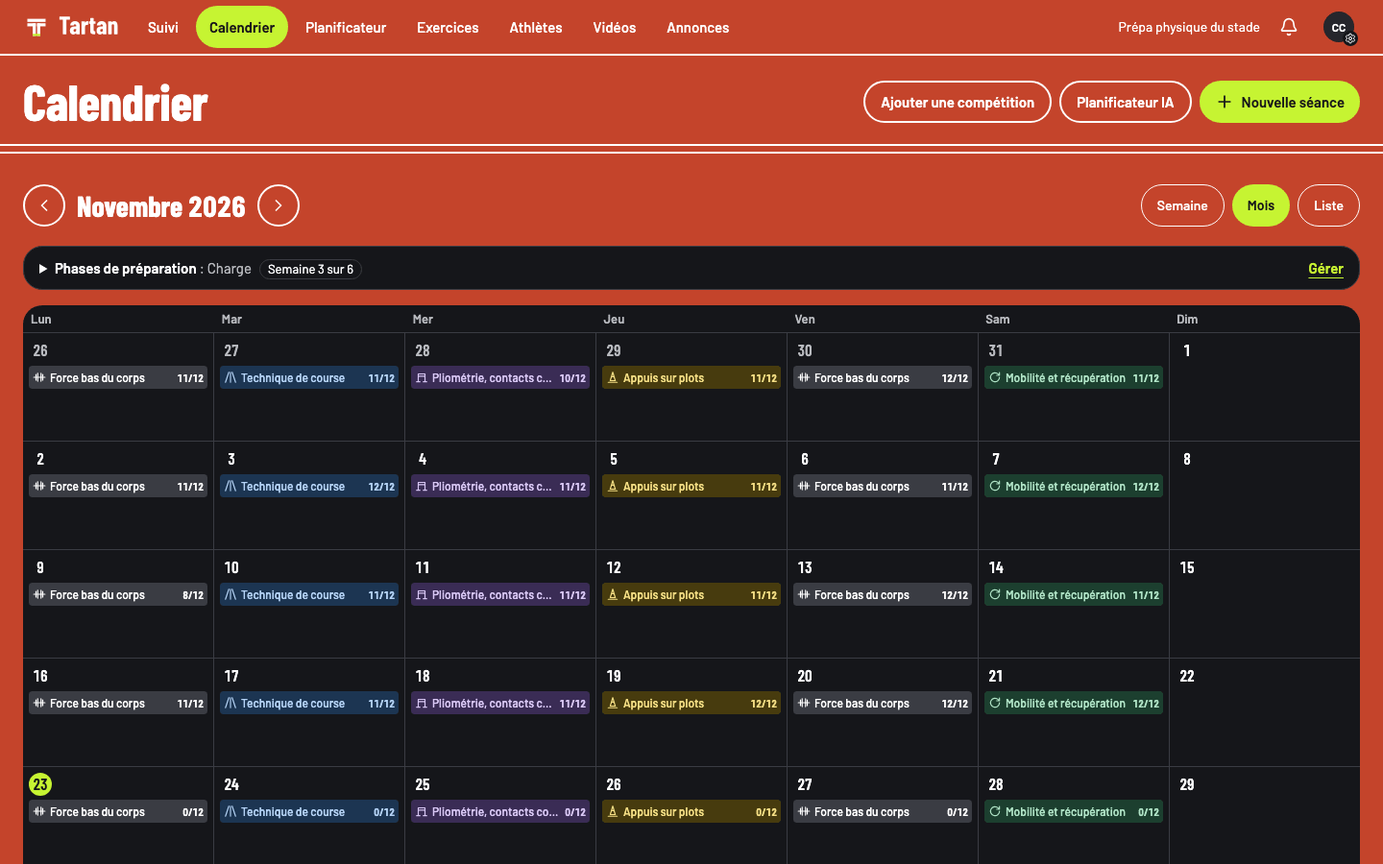
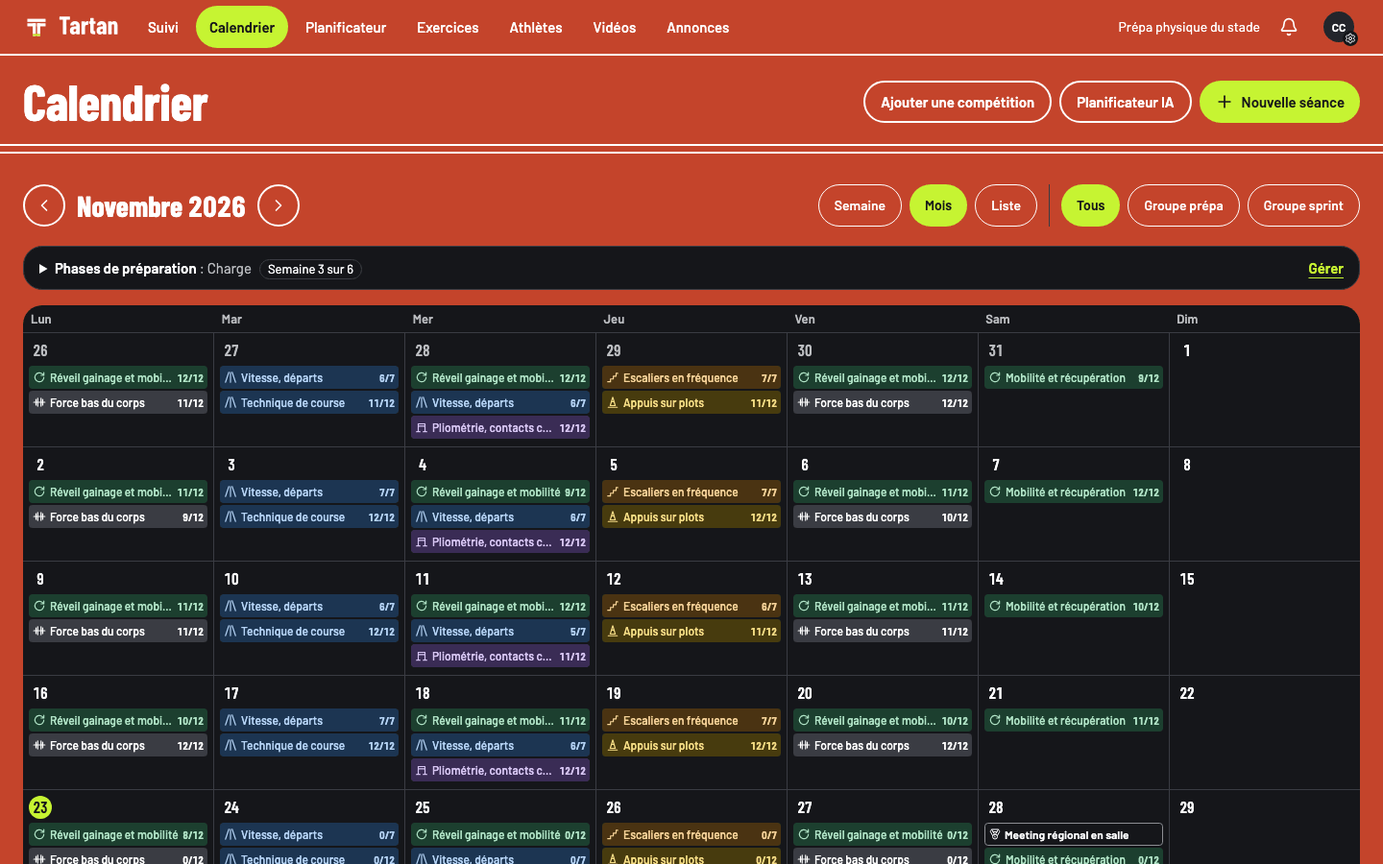
feat(landing): fuller captures from a two-group demo week

Changed region(s): [[0.0, 0.4044, 0.875, 1.0], [0.5938, 0.2178, 0.9688, 0.28]]

diff --git a/packages/i18n/src/fr.ts b/packages/i18n/src/fr.ts
@@ -1566,13 +1566,13 @@ export const fr = {
           tab: "Semaine",
           title: "Ta semaine d'un coup d'œil.",
           body: "Chaque jour, ses séances : le type, l'heure, le groupe, et combien d'athlètes l'ont déjà faite. Tu déplaces une séance d'un geste, tu dupliques la semaine.",
-          alt: "Calendrier du coach sur ordinateur, semaine du 23 novembre : une séance par jour, musculation, course et technique, pliométrie, plots, musculation et mobilité, chacune avec son heure et son groupe.",
+          alt: "Calendrier du coach sur ordinateur, semaine du 23 novembre : deux à trois séances par jour pour deux groupes, le réveil musculaire à 7 h 30, la vitesse du groupe sprint à 12 h 15, la séance du soir à 18 h 30, et le meeting régional en salle du samedi.",
         },
         mois: {
           tab: "Mois",
           title: "Le mois entier, en couleurs.",
           body: "Musculation, pliométrie, course, plots, mobilité : chaque type de séance a sa couleur, et la phase de préparation en cours encadre les semaines.",
-          alt: "Calendrier du mois de novembre sur ordinateur : chaque jour porte ses séances en couleur avec le nombre d'athlètes qui les ont faites, sous la phase de préparation « Charge », semaine 3 sur 6.",
+          alt: "Calendrier du mois de novembre sur ordinateur : deux ou trois séances par jour en couleur, avec le nombre d'athlètes qui les ont faites, sous la phase de préparation « Charge », semaine 3 sur 6.",
         },
         constructeur: {
           tab: "Constructeur",
@@ -1596,31 +1596,31 @@ export const fr = {
           tab: "Fiche d'exercice",
           title: "Chaque geste, montré pas à pas.",
           body: "Un athlète du groupe dessiné pour Tartan exécute le mouvement, position par position, de profil ou de face, avec les consignes, les erreurs à éviter et les variantes.",
-          alt: "Fiche du squat arrière sur ordinateur : un athlète dessiné, arrêté en bas du squat à l'étape 2, avec la mise en place, les étapes, les erreurs à éviter et les variantes.",
+          alt: "Fiche du squat arrière sur ordinateur : un athlète dessiné, arrêté en bas du squat à l'étape 2, la mise en place, les étapes, les erreurs à éviter, les variantes et une vidéo du groupe liée au mouvement.",
         },
         suivi: {
           tab: "Suivi",
           title: "Qui a fait quoi, sans SMS.",
           body: "La grille de la semaine se remplit à mesure que les athlètes valident : faite, partielle ou manquée. Tu repères d'un coup d'œil qui décroche.",
-          alt: "Suivi du groupe sur ordinateur, semaine du 16 novembre : les athlètes en lignes, six séances en colonnes, chaque séance faite, partielle ou manquée, et la part faite par chacun.",
+          alt: "Suivi du groupe sur ordinateur, semaine du 16 novembre : les athlètes des deux groupes en lignes, onze séances en colonnes, chaque séance faite, partielle ou manquée, et la part faite par chacun.",
         },
         analyse: {
           tab: "Analyse",
           title: "Ce qui a vraiment été fait.",
           body: "Séances validées, séries réalisées, tonnage, distance, contacts au sol : le prévu et le réalisé restent séparés, et une donnée absente n'est jamais inventée.",
-          alt: "Analyse de l'entraînement sur ordinateur, sur quatre semaines : 256 séances validées sur 288 attribuées, les séries prescrites et l'évolution hebdomadaire du tonnage prévu.",
+          alt: "Analyse de l'entraînement sur ordinateur, sur quatre semaines : 463 séances validées sur 516 attribuées, 648 séries de travail réalisées, et le tonnage prévu et réalisé, semaine par semaine.",
         },
-        calculateur: {
-          tab: "Calculateur",
-          title: "Les pourcentages, sans calculette.",
-          body: "Une charge et ses répétitions donnent un maximum estimé, puis toutes les charges de 40 à 100 %, arrondies au pas de ta barre.",
-          alt: "Calculateur de charges sur ordinateur : 102,5 kg soulevés 5 fois donnent un maximum estimé de 119,58 kg, puis le tableau des charges exactes et arrondies, à partir de 40 %.",
+        references: {
+          tab: "Références de force",
+          title: "Chacun ses maximums.",
+          body: "Les tests de force de chaque athlète deviennent ses références de travail : c'est d'elles que partent ses charges en pourcentage. Le calculateur estime un maximum quand le test manque.",
+          alt: "Fiche de l'athlète Tom Girard sur ordinateur : ses références de travail au squat arrière, 104 kg, et à l'épaulé, 75 kg, puis ses tests de force au squat, à l'épaulé, au soulevé de terre et au hip thrust, à côté de son historique de séances.",
         },
         athlete: {
           tab: "Fiche athlète",
           title: "Un athlète, sur une seule page.",
           body: "Régularité, séances faites par semaine, performances et records, historique : tout ce qu'il faut pour la discussion d'après séance.",
-          alt: "Fiche de l'athlète Alex Bernard sur ordinateur : 73 % de séances faites, les séances faites par semaine, ses performances avec deux records, au 100 m et au saut en longueur, et son historique.",
+          alt: "Fiche de l'athlète Alex Bernard, du groupe prépa et du groupe sprint, sur ordinateur : 90 % de séances faites, les séances faites par semaine, ses performances avec deux records, au 100 m et au saut en longueur, et son historique.",
         },
         video: {
           tab: "Analyse vidéo",
@@ -1639,31 +1639,31 @@ export const fr = {
           tab: "Aujourd'hui",
           title: "Sa journée, dès l'ouverture.",
           body: "La séance du jour en tête, le mot du coach, et la suite de la semaine juste dessous.",
-          alt: "Accueil de l'athlète sur téléphone : « Salut Alex », la semaine en pastilles, l'annonce du coach, la séance de force du jour avec ses boutons de validation, et le mot du coach.",
+          alt: "Accueil de l'athlète sur téléphone : « Salut Alex », la semaine en pastilles, l'annonce du coach, le réveil gainage et mobilité de 7 h 30 déjà validé, le mot du coach et le programme du jour.",
         },
         semaine: {
           tab: "À venir",
           title: "Il voit ce qui arrive.",
           body: "La phase de préparation en cours, puis les séances des jours à venir, en liste ou sur le mois : chacun s'organise, sans message de rappel.",
-          alt: "Calendrier de l'athlète sur téléphone, en liste : la phase « Charge », semaine 3 sur 6, puis les séances à venir, du lundi au jeudi.",
+          alt: "Calendrier de l'athlète sur téléphone, en liste : la phase « Charge », semaine 3 sur 6, le meeting régional en salle du samedi, puis les séances à venir, la première déjà faite.",
         },
         musculation: {
           tab: "Musculation",
           title: "Ses charges, déjà calculées.",
-          body: "Le pourcentage du coach devient une charge en kilos, d'après ses propres références. Il coche chaque série et note ce qu'il a vraiment soulevé.",
-          alt: "Mode séance sur téléphone : squat arrière, 4 × 5 répétitions à 96,25 kg, récupération 3 minutes ; deux séries cochées sur quatre et le minuteur de récupération lancé.",
+          body: "Le pourcentage du coach devient une charge en kilos, d'après ses propres références. Chaque série arrive pré-remplie : il la coche, ou corrige ce qu'il a vraiment soulevé.",
+          alt: "Séries de la séance de force sur téléphone : squat arrière, 4 × 5 répétitions à 96,25 kg ; la série 1 arrive pré-remplie, 5 répétitions et 96,25 kg, à cocher ou à corriger.",
         },
         pliometrie: {
           tab: "Pliométrie",
           title: "Les contacts comptés.",
           body: "Séries, répétitions, contacts au sol et récupération : la séance de pliométrie se suit exercice par exercice.",
-          alt: "Mode séance sur téléphone : sauts de haies basses, 5 × 6 haies, 30 contacts au sol, récupération 2 minutes, avec les consignes et les cinq séries à cocher.",
+          alt: "Mode séance sur téléphone : sauts de haies basses, 5 × 6 haies, 30 contacts au sol, récupération 2 minutes, et le guide du mouvement ouvert, l'athlète dessiné au-dessus de deux haies.",
         },
         course: {
           tab: "Course",
-          title: "Distances et récupérations.",
-          body: "Gammes, accélérations, sprints : chaque exercice avec sa distance, sa récupération et la consigne du coach.",
-          alt: "Mode séance sur téléphone : accélérations, 6 × 30 mètres, récupération 2 minutes, avec les consignes du coach et les six séries à cocher.",
+          title: "Il sait ce qui l'attend.",
+          body: "Avant la séance, tout est là : les blocs, les distances, les récupérations et le mot du coach. Il dit s'il vient, puis démarre la séance.",
+          alt: "Séance « Technique de course » du mardi sur téléphone : le mot du coach, « Je viens » ou « Je ne viens pas », le bouton pour démarrer, puis les gammes avec leurs distances et leurs récupérations.",
         },
         calculateur: {
           tab: "Calculateur",
@@ -1675,7 +1675,7 @@ export const fr = {
           tab: "Progrès",
           title: "Ses records, sa progression.",
           body: "Performances en compétition, références de force et séries réalisées : il voit d'où il part et où il en est.",
-          alt: "Progrès de l'athlète sur téléphone : la phase de préparation en cours, 19 séances faites sur 23 ces quatre dernières semaines, puis ses performances.",
+          alt: "Progrès de l'athlète sur téléphone : la phase de préparation en cours, 43 séances faites sur 47 ces quatre dernières semaines, puis ses performances.",
         },
         video: {
           tab: "Vidéo",

diff --git a/apps/web/prisma/demo-preparation.ts b/apps/web/prisma/demo-preparation.ts
@@ -14,8 +14,8 @@ import { setConsent } from "@/server/consent.service";
 import { publishAnnouncement } from "@/server/comm.service";
 import { createOrganization } from "@/server/org.service";
 import { addPerformance } from "@/server/performance.service";
-import { addStrengthTest } from "@/server/strength.service";
-import { publishRow, saveScheduledSession } from "@/server/session.service";
+import { addStrengthTest, selectStrengthReference } from "@/server/strength.service";
+import { publishRow, saveCompetition, saveScheduledSession } from "@/server/session.service";
 
 const databaseUrl = process.env.DATABASE_URL ?? "";
 if (!/@(localhost|127\.0\.0\.1)[:/]/.test(databaseUrl)) {
@@ -122,6 +122,18 @@ const main = async () => {
   });
   const roster = [mainAthlete];
   for (const [first, last] of ATHLETES) roster.push(await enroll(await person(first, last), first, last));
+  // Un second groupe, les sprinteurs, qui s'entraînent aussi à midi : Alex en fait partie.
+  const sprintGroup = await prisma.group.create({
+    data: { organizationId, name: "Groupe sprint", goal: "Vitesse et départs, saison en salle" },
+  });
+  const sprinters = [0, 1, 2, 3, 5, 6, 10].map((index) => roster[index]!);
+  await prisma.groupMember.createMany({
+    data: sprinters.map((athleteId) => ({
+      groupId: sprintGroup.id,
+      athleteId,
+      createdAt: new Date("2026-01-05T10:00:00Z"),
+    })),
+  });
 
   const library = await prisma.exercise.findMany({ where: { organizationId }, select: { id: true, name: true } });
   const exercise = (name: string) => {
@@ -142,14 +154,19 @@ const main = async () => {
       ["deadlift", Math.round((index === 0 ? 120 : base) * 1.2)],
       ["hip_thrust", Math.round((index === 0 ? 120 : base) * 1.35)],
     ];
+    // Chaque test sert les pourcentages des séances (clé du test) ; squat et épaulé ont aussi leur référence de travail,
+    // rattachée à leur fiche, que la fiche de l'athlète affiche.
+    const linked: Record<string, string> = { back_squat: "Squat arrière", clean: "Épaulé" };
     for (const [exerciseKey, value] of tests) {
-      await addStrengthTest(coachId, organizationId, {
-        athleteId,
-        exerciseKey,
-        value,
-        kind: "one_rm",
-        date: addDays(today0, -21 - (index % 4) * 3),
-      });
+      const date = addDays(today0, -21 - (index % 4) * 3);
+      await addStrengthTest(coachId, organizationId, { athleteId, exerciseKey, value, kind: "one_rm", date });
+      const name = linked[exerciseKey];
+      if (name) {
+        await selectStrengthReference(coachId, organizationId, athleteId, exercise(name), {
+          source: "working",
+          valueKg: value,
+        });
+      }
     }
   }
   for (const [days, value] of [
@@ -264,28 +281,64 @@ const main = async () => {
         ]),
       ],
     },
+    reveil: {
+      type: "mobility",
+      title: "Réveil gainage et mobilité",
+      duration: 25,
+      note: "Avant les cours : on réveille le tronc et les hanches, sans se presser.",
+      blocks: [
+        block("Réveil", [
+          item("Mobilité de cheville", { sets: 2, reps: 10, rest_s: 20 }),
+          item("Mobilité des hanches", { sets: 2, reps: 10, rest_s: 20 }),
+          item("Gainage ventral", { sets: 3, duration_s: 45, rest_s: 30 }),
+        ]),
+      ],
+    },
+    vitesse: {
+      type: "running",
+      title: "Vitesse, départs",
+      duration: 50,
+      note: "Départs réactifs : premiers appuis courts et puissants.",
+      blocks: [
+        block("Activation", [item("Gammes : montées de genoux", { sets: 2, distance_m: 20, rest_s: 45 })]),
+        block("Vitesse", [
+          item("Accélérations", { sets: 5, distance_m: 30, rest_s: 150 }),
+          item("Sprints départ lancé", { sets: 4, distance_m: 30, rest_s: 240 }),
+        ]),
+      ],
+    },
   };
 
-  // Semaine type, de quatre semaines avant à quatre semaines après : le mois affiché est plein.
-  const pattern: [number, keyof typeof sessionsByType][] = [
-    [0, "force"],
-    [1, "technique"],
-    [2, "plyo"],
-    [3, "plots"],
-    [4, "force"],
-    [5, "mobilite"],
+  // Semaine type, de quatre semaines avant à quatre semaines après : le mois affiché est plein. Le groupe prépa le
+  // soir, son réveil musculaire trois matins, et le groupe sprint deux midis : jusqu'à trois séances par jour.
+  type Slot = [offset: number, key: keyof typeof sessionsByType, time: string, group: "prepa" | "sprint"];
+  const pattern: Slot[] = [
+    [0, "reveil", "07:30", "prepa"],
+    [0, "force", "18:30", "prepa"],
+    [1, "vitesse", "12:15", "sprint"],
+    [1, "technique", "18:30", "prepa"],
+    [2, "reveil", "07:30", "prepa"],
+    [2, "vitesse", "12:15", "sprint"],
+    [2, "plyo", "18:30", "prepa"],
+    [3, "escaliers", "12:15", "sprint"],
+    [3, "plots", "18:30", "prepa"],
+    [4, "reveil", "07:30", "prepa"],
+    [4, "force", "18:30", "prepa"],
+    [5, "mobilite", "10:00", "prepa"],
   ];
+  const groups = { prepa: { id: org.firstGroupId, members: roster }, sprint: { id: sprintGroup.id, members: sprinters } };
   const today = todayIso();
   const monday = startOfWeek(today);
   const publishedAt = new Date(`${addDays(monday, -35)}T10:00:00Z`);
   for (let week = -4; week <= 4; week++) {
-    for (const [offset, key] of pattern) {
+    for (const [offset, key, startTime, groupKey] of pattern) {
       const date = addDays(monday, week * 7 + offset);
-      const spec = week === 1 && key === "plots" ? sessionsByType.escaliers! : sessionsByType[key]!;
+      const spec = sessionsByType[key]!;
+      const group = groups[groupKey];
       const session = await saveScheduledSession(coachId, organizationId, {
         date,
-        startTime: "18:30",
-        location: spec.type === "strength" ? "Salle de force" : "Stade",
+        startTime,
+        location: spec.type === "strength" ? "Salle de force" : spec.type === "stairs" ? "Tribune du stade" : "Stade",
         publishAt: null,
         draft: {
           title: spec.title,
@@ -294,12 +347,15 @@ const main = async () => {
           coachNote: spec.note,
           blocks: spec.blocks,
         },
-        assignments: [{ targetType: "group", targetId: org.firstGroupId }],
+        assignments: [{ targetType: "group", targetId: group.id }],
         overrides: [],
       });
       await publishRow(session.id, coachId, publishedAt, { silent: true });
-      if (date >= today) continue;
-      for (const athleteId of roster) {
+      // Le réveil de ce matin est déjà fait par une partie du groupe : la journée a commencé.
+      const doneThisMorning = date === today && startTime < "09:00";
+      if (date >= today && !doneThisMorning) continue;
+      for (const athleteId of group.members) {
+        if (doneThisMorning && random() < 0.3) continue;
         const roll = random();
         const status = roll < 0.78 ? "done" : roll < 0.9 ? "partial" : "missed";
         const log = await prisma.sessionLog.create({
@@ -325,14 +381,26 @@ const main = async () => {
               ...set,
               sessionLogId: log.id,
               done: true,
+              // Les valeurs du contrat des séries détaillées : sans elles, l'analyse ignore la série.
               setKind: "work",
-              loadKind: "external_total",
+              loadKind: "external",
+              repetitionScope: "total",
+              sideCount: 1,
             })),
           });
         }
       }
     }
   }
+
+  // Le meeting du samedi, pour le groupe sprint : il paraît dans le calendrier du coach et de ses athlètes.
+  await saveCompetition(coachId, organizationId, {
+    name: "Meeting régional en salle",
+    date: addDays(monday, 5),
+    location: "Halle d'athlétisme",
+    level: "Régional",
+    athleteIds: sprinters,
+  });
 
   // La capture de l'accueil montre toujours une séance du jour, même un jour de repos du cycle.
   const offsetToday = (new Date(`${today}T12:00:00Z`).getUTCDay() + 6) % 7;

diff --git a/apps/web/e2e/landing-captures.spec.ts b/apps/web/e2e/landing-captures.spec.ts
@@ -199,12 +199,9 @@ test.describe("page d'accueil", () => {
     // La semaine passée, remplie par les validations du groupe.
     await shot(page, `/suivi?semaine=${monday(1)}`, "coach-suivi.png");
     await shot(page, "/analyse", "coach-analyse.png");
-    await shot(page, "/outils/charges", "coach-calculateur.png", async (p) => {
-      await p.getByLabel("Charge externe totale (kg)").fill("102,5");
-      await p.getByLabel("Répétitions réalisées").fill("5");
-      await p.getByRole("button", { name: "Utiliser dans le tableau" }).click();
-      await p.waitForTimeout(300);
-    });
+    // Les références de force d'un autre athlète que celui de la fiche : ses maximums, d'où partent ses charges.
+    const tom = await one("SELECT id FROM athletes WHERE first_name = 'Tom' LIMIT 1");
+    await shot(page, `/athletes/${tom}`, "coach-references.png", (p) => scrollTo(p, "Références de travail"));
     await shot(page, `/athletes/${alex}`, "coach-athlete.png");
 
     // Le planificateur, par sa demande : une séance décrite en une phrase, prête à partir. La capture s'arrête avant
@@ -264,16 +261,25 @@ test.describe("téléphone", () => {
       await p.waitForTimeout(600);
     };
     // La séance de force du jour : le squat à 80 % devient sa charge en kilos ; deux séries déjà cochées.
+    // Ses séries de la séance de force : la charge prévue de chaque série, calculée sur ses références, et ce qu'il a
+    // réellement soulevé à saisir dessous.
+    await shot(page, `/seance/${today}/series`, "athlete-musculation.png", async (p) => {
+      await p.locator("main").getByText("Squat arrière", { exact: true }).last().click();
+      await p.waitForTimeout(300);
+      await scrollTo(p, "Squat arrière");
+    });
+    // La pliométrie en cours : trois séries faites, le geste ouvert au-dessus des séries.
     await shot(
       page,
-      `/seance/${today}/mode`,
-      "athlete-musculation.png",
+      `/seance/${plyo}/mode`,
+      "athlete-pliometrie.png",
       step(1, async (p) => {
-        for (const set of [1, 2]) await p.getByRole("button", { name: `Série ${set} à faire` }).click();
+        for (const set of [1, 2, 3]) await p.getByRole("button", { name: `Série ${set} à faire` }).click();
+        await p.getByText("Voir le guide du mouvement").click();
       }),
     );
-    await shot(page, `/seance/${plyo}/mode`, "athlete-pliometrie.png", step(1));
-    await shot(page, `/seance/${running}/mode`, "athlete-course.png", step(2));
+    // La séance de course entière, avant de la démarrer : ses blocs, ses distances et ses récupérations.
+    await shot(page, `/seance/${running}`, "athlete-course.png");
     // La fiche d'un exercice, ouverte depuis la séance : le geste animé et ses étapes.
     await shot(
       page,

diff --git a/apps/web/app/page.tsx b/apps/web/app/page.tsx
@@ -19,7 +19,7 @@ import athleteVideo from "@/features/landing/images/athlete-video.png";
 import coachAnalysis from "@/features/landing/images/coach-analyse.png";
 import coachAthlete from "@/features/landing/images/coach-athlete.png";
 import coachLibrary from "@/features/landing/images/coach-bibliotheque.png";
-import coachCalculator from "@/features/landing/images/coach-calculateur.png";
+import coachReferences from "@/features/landing/images/coach-references.png";
 import coachBuilder from "@/features/landing/images/coach-constructeur.png";
 import coachExercise from "@/features/landing/images/coach-fiche-exercice.png";
 import coachMonth from "@/features/landing/images/coach-mois.png";
@@ -62,7 +62,7 @@ const coachScreens: ShowcaseItem[] = (
     ["fiche", coachExercise],
     ["suivi", coachTracking],
     ["analyse", coachAnalysis],
-    ["calculateur", coachCalculator],
+    ["references", coachReferences],
     ["athlete", coachAthlete],
     ["video", coachVideo],
   ] as const

diff --git a/docs/JOURNAL.md b/docs/JOURNAL.md
@@ -6,8 +6,8 @@ Modèle :
 
 ```text
 ## 2026-11-23, Claude Opus 5.5, page d'accueil de l'ouverture
-Fait : PR `feat/landing-ouverture`, à la demande du fondateur. Film réduit au saut en hauteur (`jump-film-pose.ts` : `FILM.start/plant/flight/impact/finish`, les promesses suivent l'élan, l'appel et le franchissement ; haies, perche, relais et leurs accessoires retirés, test `jump-film-script.test.ts`). Bande du groupe (`group-band.tsx`, `t.group`) retirée ; `discipline-athlete.ts` gardé, la carte de record s'en sert. « Capture fictive », « Rejoindre le pilote » et « (bêta) » retirés (titre et pastille du planificateur, web et natif, ligne des CGV) ; inscriptions fermées : le bouton dit « Nous écrire ». Mot « Tartan » à T de la marque : `scripts/build-logo.mjs` produit `wordmark-letters.svg` et `wordmark-line.svg`, `.wordmark` les peint en masques (citron sur la piste, une couleur sur fond clair). Deux sections d'onglets (`feature-showcase.tsx`, cadres `device-frame.tsx` en CSS) : 11 écrans du coach, 9 de l'athlète, 20 captures neuves sur `demo:preparation` enrichi (références de force par athlète, charges en % du max, séries de travail, performances et records, favoris, quatre vidéos, accord IA du coach).
-Vérifié : types, lint, tests, design ; parcours `landing`, `pilot`, `ai-planner`, `screen-matrix` sur build de production ; rendu regardé à 390, 768 et 1440 px. Non vérifié : app native sur simulateur (l'accès au simulateur n'a pas été accordé pendant le lot : les écrans de l'athlète sont ceux de la web app à 390 px, ce que dit `provenance.json`) ; lecteurs d'écran ; Safari.
+Fait : PR `feat/landing-ouverture`, à la demande du fondateur. Film réduit au saut en hauteur (`jump-film-pose.ts` : `FILM.start/plant/flight/impact/finish`, les promesses suivent l'élan, l'appel et le franchissement ; haies, perche, relais et leurs accessoires retirés, test `jump-film-script.test.ts`). Bande du groupe (`group-band.tsx`, `t.group`) retirée ; `discipline-athlete.ts` gardé, la carte de record s'en sert. « Capture fictive », « Rejoindre le pilote » et « (bêta) » retirés (titre et pastille du planificateur, web et natif, ligne des CGV) ; inscriptions fermées : le bouton dit « Nous écrire ». Mot « Tartan » à T de la marque : `scripts/build-logo.mjs` produit `wordmark-letters.svg` et `wordmark-line.svg`, `.wordmark` les peint en masques (citron sur la piste, une couleur sur fond clair). Deux sections d'onglets (`feature-showcase.tsx`, cadres `device-frame.tsx` en CSS) : 11 écrans du coach, 9 de l'athlète, 20 captures neuves sur `demo:preparation` enrichi (deux groupes, réveil musculaire le matin, vitesse à midi, séances du soir, un meeting le samedi, validations du matin déjà faites, références de force et références de travail par athlète, charges en % du max, séries de travail, performances et records, favoris, quatre vidéos, accord IA du coach). « Séries réalisées : 0 » sur `/analyse` venait du jeu de données : ses séries n'avaient pas les valeurs du contrat `detailedSetInput` (`loadKind: "external"`, `repetitionScope`, `sideCount`), l'analyse les écartait.
+Vérifié : types, lint, tests, design ; parcours `landing`, `pilot`, `ai-planner`, `screen-matrix` sur build de production ; rendu regardé à 390, 768 et 1440 px. Non vérifié : app native sur simulateur (build Release fait deux fois, installé et ouvert sur un simulateur dédié ; l'accès au simulateur, demandé à trois reprises, n'a pas été accordé, et Maestro n'est pas installé sur le poste : sans saisie ni toucher, la connexion par mot de passe est impossible ; les écrans de l'athlète sont ceux de la web app à 390 px, ce que dit `provenance.json`) ; lecteurs d'écran ; Safari.
 À savoir : `e2e/landing-captures.spec.ts` refait toutes les captures (mode d'emploi en tête ; jamais en CI). Le clip de l'analyse vidéo est le geste animé de la fiche « Accélérations », filmé par le test « clip » ; les vidéos ne se capturent que sur le serveur de développement (`VIDEO_DEV_MP4_URL`). Le planificateur est capturé avant l'envoi : sa réponse viendrait du prestataire simulé. Le build natif Release pointé sur un serveur local se fait sans EAS : `expo prebuild`, `pod install` (avec `LC_ALL=en_US.UTF-8`), `xcodebuild -sdk iphonesimulator` ; la connexion passe par `tartan-dev://callback?cookie=…`, mais iOS demande alors de confirmer l'ouverture, d'où le besoin de piloter le simulateur.
 Suite : reprendre les 9 écrans de l'athlète sur l'app native quand le simulateur est accessible ; essai du planificateur par le fondateur.
 

diff --git a/docs/ETAT.md b/docs/ETAT.md
@@ -45,7 +45,7 @@ Niveaux : **codé**, **testé** automatiquement, **éprouvé** en production ou 
 | Finitions web : dessin et bascule de l'ancien moteur de gestes retirés (8 454 images prouvées identiques) ; `/seances/[id]/suivi` par tranches de 30 avec recherche (21 641 → 5 593 px à 390 px pour 120 athlètes) ; case dessinée sur `/videos` ; 113 derniers textes en dur rangés, base gelée vide et tenue à zéro ; séries repliées par exercice, `/admin/mouvements` replié par famille | PR `chore/finitions-et-jeu` | Testé (suite Playwright entière : 268 réussis, 0 échec hors WebKit absent du poste et hors jeu retiré) | Opus |
 | Jeu public retiré (demande du fondateur, 23 novembre) : `/jeu` redirige vers l'accueil, `packages/game`, son classement, sa modération et son réglage supprimés (107 fichiers, 6 193 lignes) ; tables `game_*` gardées, vides | PR `chore/finitions-et-jeu` | Testé (`landing`, `mascot-board`, `screen-matrix`, `admin-console`, redirection 308) | Opus |
 | Athlète autonome, web (décision du 23 novembre, plan `docs/plans/athlete-autonome.md`) : aiguillage à l'inscription (coach, seul, lien d'invitation), espace personnel gratuit (offre `personal` : 5 propositions IA, 10 min de dictée, 4 vidéos par mois), planification pour soi sans destinataires, premiers pas et 4 e-mails propres, partage facultatif et révocable de l'historique avec un coach (santé exclue), correctifs des impasses d'un compte sans espace, réglage « Inscriptions des athlètes autonomes » | PR `feat/athlete-autonome-pr` | Testé (web 2 507, domaine 514 ; 4 parcours neufs de bout en bout sur build de production) ; textes juridiques à relire par le fondateur ; app native au lot AA3 | Opus |
-| Page d'accueil de l'ouverture (demande du fondateur, 23 novembre) : film réduit au saut en hauteur, bande des six athlètes retirée, plus aucune mention de pilote, de bêta ni de capture fictive (planificateur et CGV compris), mot « Tartan » dont le T est la marque dans l'en-tête du site, deux sections d'onglets (11 écrans du coach dans un ordinateur, 9 de l'athlète dans un téléphone, cadres dessinés en CSS), 20 captures neuves et rejouables (`e2e/landing-captures.spec.ts`) | PR `feat/landing-ouverture` | Testé (types, lint, tests, design, parcours `landing`, `pilot`, `ai-planner`, `screen-matrix` sur build de production) ; écrans de l'athlète pris sur la web app à 390 px, le simulateur iOS n'ayant pas été accessible | Opus |
+| Page d'accueil de l'ouverture (demande du fondateur, 23 novembre) : film réduit au saut en hauteur, bande des six athlètes retirée, plus aucune mention de pilote, de bêta ni de capture fictive (planificateur et CGV compris), mot « Tartan » dont le T est la marque dans l'en-tête du site, deux sections d'onglets (11 écrans du coach dans un ordinateur, 9 de l'athlète dans un téléphone, cadres dessinés en CSS), 20 captures neuves et rejouables (`e2e/landing-captures.spec.ts`) sur un jeu de démonstration rempli (deux groupes, jusqu'à trois séances par jour, un meeting, séries saisies qui nourrissent l'analyse) | PR `feat/landing-ouverture` | Testé (types, lint, tests, design, parcours `landing`, `pilot`, `ai-planner`, `screen-matrix` sur build de production) ; écrans de l'athlète pris sur la web app à 390 px : l'app native est construite et installée sur un simulateur, mais l'accès au simulateur n'a pas été accordé pendant le lot | Opus |
 
 ### En cours
 
